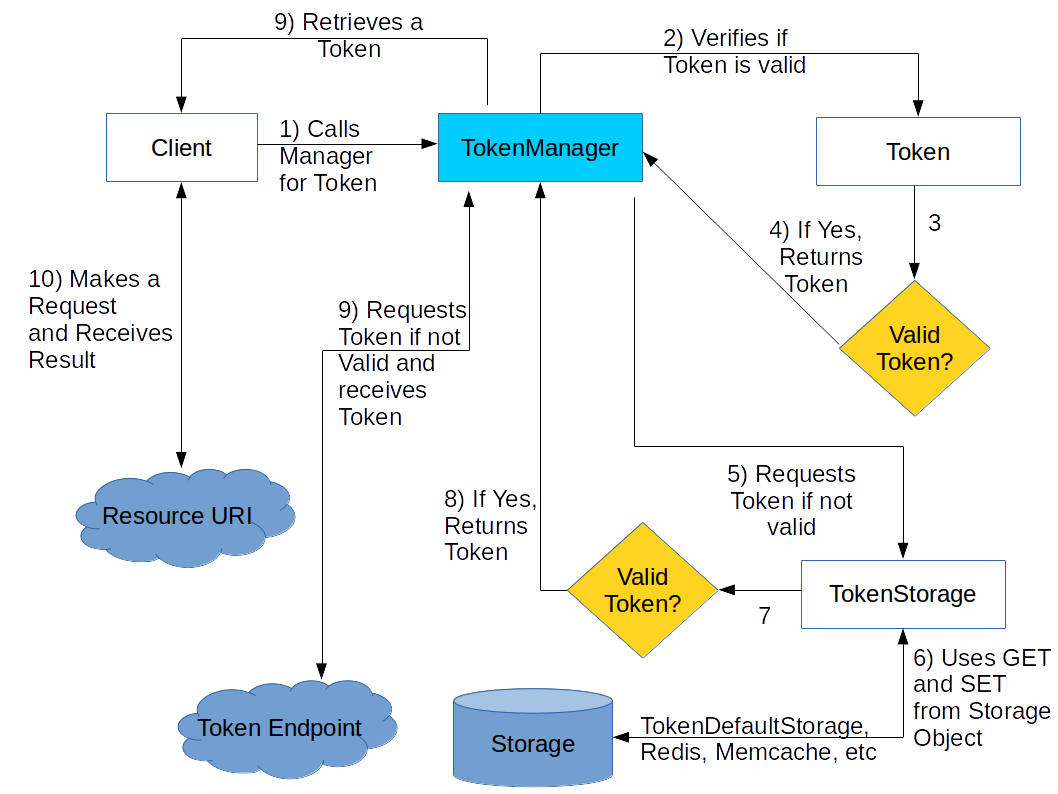
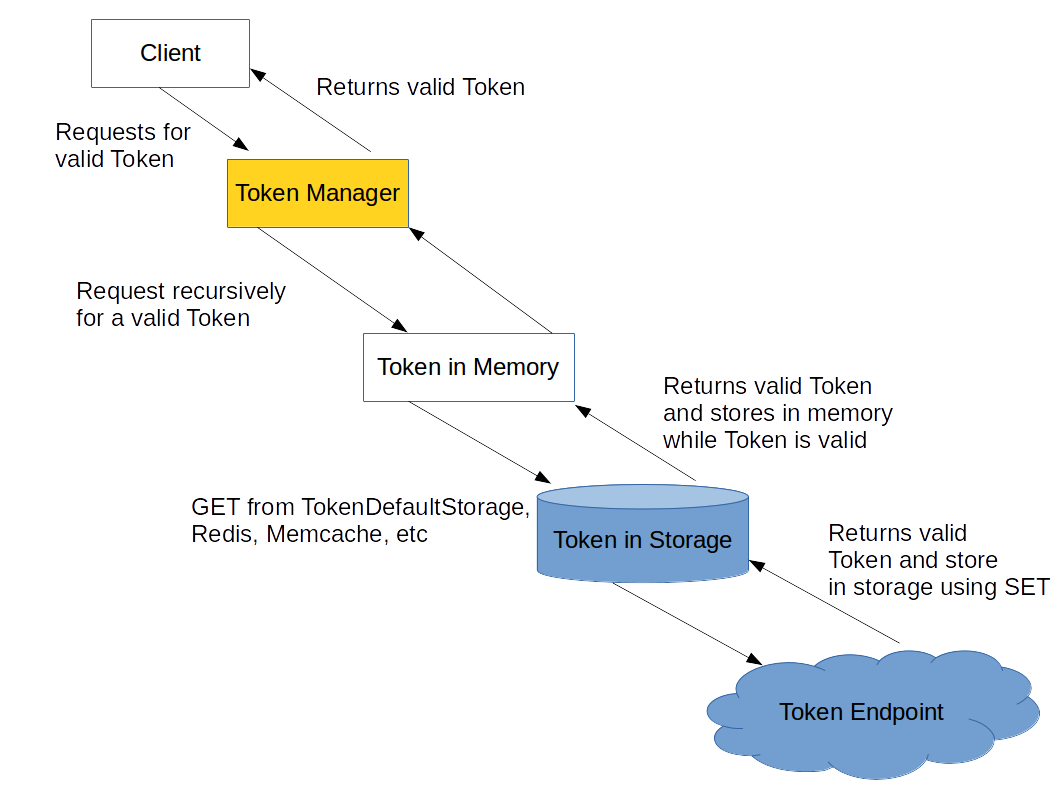
better tests and simplified workflow. Token requested once from storage now

diff --git a/tests/tokens/test_token.py b/tests/tokens/test_token.py
@@ -6,15 +6,18 @@ import unittest
 from alf.managers import Token
 from alf.tokens import TokenStorage, TokenDefaultStorage, TOKEN_KEY, TOKEN_EXPIRES
 from datetime import datetime, timedelta
+from freezegun import freeze_time
+
 
 class TestToken(unittest.TestCase):
 
     def setUp(self):
         self.storage_obj = None
 
+    @freeze_time("2015-01-01 10:00:00.117153")
     def test_expires_on_works(self):
         expires = Token.calc_expires_on(10)
-        self.assertGreater(datetime.now() + timedelta(seconds=10), expires)
+        self.assertEqual(datetime.now() + timedelta(seconds=10), expires)
 
     def test_should_have_an_access_token(self):
         token = Token(access_token='access_token')
@@ -52,6 +55,22 @@ class TestTokenStorage(unittest.TestCase):
         expires = str(token.expires_on)
         token_storage = TokenStorage(self.storage_obj)
         token_storage(token)
+        token_requested = token_storage.request_token()
+        self.assertEqual(len(token_requested), 2)
+        self.assertEqual(token_requested.get('access_token'), 'access_token')
+        self.assertEqual(self.storage_obj.get('expires_on'), expires, self.storage_obj)
+
+    def test_storage_should_add_just_once_same_value(self):
+        expires_datetime = Token.calc_expires_on(10)
+        token = Token(access_token='access_token',
+                      expires_on=expires_datetime)
+        token2 = Token(access_token='new_access_token',
+                       expires_on=expires_datetime)
+        expires = str(token.expires_on)
+        token_storage = TokenStorage(self.storage_obj)
+        token_storage(token)
+        token_storage._access_token = 'new_access_token'
+        token_storage(token2)
         token_requested = token_storage.request_token()
         self.assertEqual(len(token_requested), 2)
         self.assertEqual(token_requested.get('access_token'), 'access_token')

diff --git a/alf/tokens.py b/alf/tokens.py
@@ -17,7 +17,6 @@ class Token(object):
 
     def __init__(self, access_token='', expires_on=0):
         self.access_token = access_token
-
         self.expires_on = expires_on or self.calc_expires_on()
 
     def is_valid(self):
@@ -31,19 +30,28 @@ class Token(object):
 class TokenStorage(object):
     def __init__(self, custom_storage=None):
         self._storage = custom_storage or TokenDefaultStorage()
+        self._access_token = TOKEN_VALUE
+        self._expires_on = TOKEN_VALUE
 
     def __call__(self, token):
-        self._storage.set(TOKEN_KEY, token.access_token)
-        self._storage.set(TOKEN_EXPIRES, str(token.expires_on))
+        if token.access_token != self._access_token \
+                or token.expires_on != self._expires_on:
+            self._access_token = token.access_token
+            self._expires_on = token.expires_on
+            self._storage.set(TOKEN_KEY, token.access_token)
+            self._storage.set(TOKEN_EXPIRES, str(token.expires_on))
 
     def request_token(self):
-        access_token = self._storage.get(TOKEN_KEY)
+        self._access_token = self._storage.get(TOKEN_KEY)
         expires_on = self._storage.get(TOKEN_EXPIRES)
-
-        if access_token and expires_on:
-            return {TOKEN_KEY: access_token,
-                    TOKEN_EXPIRES: datetime.strptime(expires_on,
-                                                     "%Y-%m-%d %H:%M:%S.%f")}
+        if expires_on:
+            self._expires_on = datetime.strptime(expires_on,
+                                                 "%Y-%m-%d %H:%M:%S.%f")
+        else:
+            self._expires_on = datetime.now()
+        if self._access_token and self._expires_on > datetime.now():
+            return {TOKEN_KEY: self._access_token,
+                    TOKEN_EXPIRES: self._expires_on}
         return dict()
 
 class TokenDefaultStorage(object):

diff --git a/tests/managers/test_token_manager.py b/tests/managers/test_token_manager.py
@@ -5,6 +5,8 @@ from unittest import TestCase
 
 from alf.managers import TokenManager, Token, TokenError
 from alf.tokens import TokenStorage, TokenDefaultStorage
+from freezegun import freeze_time
+
 
 class TestTokenManager(TestCase):
 
@@ -28,12 +30,13 @@ class TestTokenManager(TestCase):
         self.manager._token = Token('', expires_on=Token.calc_expires_on(10))
         self.assertTrue(self.manager._has_token())
 
+    @freeze_time("2015-01-01 10:00:00.117153")
     def test_should_reset_token(self):
         self.manager.reset_token()
 
         self.assertEqual(self.manager._token.access_token, '')
-        self.assertLess(self.manager._token.expires_on,
-                        Token.calc_expires_on(0))
+        self.assertEqual(self.manager._token.expires_on,
+                         Token.calc_expires_on(0))
 
     @patch('requests.post')
     def test_should_be_able_to_request_a_new_token(self, post):
@@ -68,6 +71,7 @@ class TestTokenManager(TestCase):
         self.assertTrue(_request_token.called)
 
     @patch('alf.managers.TokenManager._request_token')
+    @freeze_time("2015-01-01 10:00:00.117153")
     def test_update_token_should_set_a_token_with_data_retrieved(self, _request_token):
         self.manager.reset_token()
         expires = 100
@@ -82,7 +86,7 @@ class TestTokenManager(TestCase):
         self.assertTrue(_request_token.called)
 
         self.assertEqual(self.manager._token.access_token, 'new_access_token')
-        self.assertLess(self.manager._token.expires_on, Token.calc_expires_on(expires))
+        self.assertEqual(self.manager._token.expires_on, Token.calc_expires_on(expires))
 
     @patch('alf.managers.TokenManager._request_token')
     def test_update_token_should_set_a_token_with_data_retrieved_from_storage(self, _request_token):
